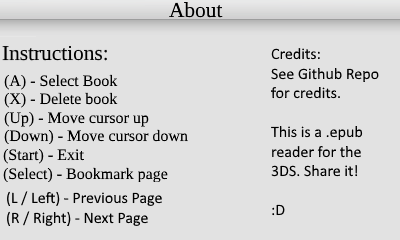
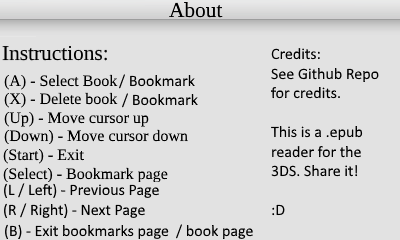
finished up bookmark system

Changed region(s): [[0.0, 0.7583, 0.63, 1.0], [0.3, 0.3208, 0.51, 0.4375]]

diff --git a/source/GUI.cpp b/source/GUI.cpp
@@ -7,7 +7,6 @@
 #include <ctime>
 #include <chrono>
 #include <cstdio>
-#include <sstream>
 #include <fstream>
 #include <cstdlib>
 #include <dirent.h> 
@@ -150,33 +149,125 @@ void GUI::event(Input& input, bool* isBookMode)
 		}
 		else
 		{	
-			// Book Events
-			
-			if ((input.getKeyDown() & KEY_B)  || (input.getPosX() >= 20 && input.getPosX() <= 103 && input.getPosY() >= 18 && input.getPosY() <= 185))
-			{ 
-				*isBookMode = false;
-				m_selected = "";
-				m_curFilePage = 1;
-				m_index = 0;
-				delete m_book;
-				m_book = nullptr;
-			}
-
-			if ((input.getKeyDown() & KEY_LEFT) || (input.getKeyDown() & KEY_L))
+			if (!m_showBookmarks)
 			{
-				--m_curBookPage;
-				if (m_curBookPage < 0)
+				// BOOK EVENTS
+
+				if (m_drawBookmarked)
 				{
-					m_curBookPage = 0;
+					if ((input.getPosX() >= 20 && input.getPosX() <= 300 && input.getPosY() >= 20 && input.getPosY() <= 220) || (input.getKeyDown() & KEY_A) )
+					{
+						m_drawBookmarked = false;
+					}
+				}
+				else
+				{
+					if ((input.getKeyDown() & KEY_B)  || (input.getPosX() >= 20 && input.getPosX() <= 103 && input.getPosY() >= 18 && input.getPosY() <= 185))
+					{ 
+						*isBookMode = false;
+						m_selected = "";
+						m_curFilePage = 1;
+						m_index = 0;
+						delete m_book;
+						m_book = nullptr;
+					}
+
+					if ((input.getKeyDown() & KEY_LEFT) || (input.getKeyDown() & KEY_L))
+					{
+						--m_curBookPage;
+						if (m_curBookPage < 0)
+						{
+							m_curBookPage = 0;
+						}
+					}
+					
+					if ((input.getKeyDown() & KEY_RIGHT) || (input.getKeyDown() & KEY_R))
+					{ 
+						++m_curBookPage;
+						if (m_curBookPage > m_book->getBookText().size())
+						{
+							m_curBookPage = m_book->getBookText().size();
+						}
+					}
+
+					if (input.getPosX() >= 120 && input.getPosX() <= 203 && input.getPosY() >= 18 && input.getPosY() <= 185)
+					{
+						m_showBookmarks = true;
+						m_bookmarks.loadBookmarks(m_selected);
+					}
+
+					if ((input.getPosX() >= 219 && input.getPosX() <= 302 && input.getPosY() >= 18 && input.getPosY() <= 185) || (input.getKeyDown() & KEY_SELECT) )
+					{
+						m_drawBookmarked = true;
+						m_bookmarks.saveBookmark(m_selected, m_curBookPage);
+						m_showBookmarks = false;
+					}
 				}
 			}
-			
-			if ((input.getKeyDown() & KEY_RIGHT) || (input.getKeyDown() & KEY_R))
-			{ 
-				++m_curBookPage;
-				if (m_curBookPage > m_book->getBookText().size())
+			else
+			{
+				// BOOKMARK MENU
+				
+				if (input.getKeyDown() & KEY_UP)
+				{ 
+					m_indexBookmark--;
+				}
+				
+				if (input.getKeyDown() & KEY_DOWN)
 				{
-					m_curBookPage = m_book->getBookText().size();
+				 	m_indexBookmark++; 
+				}
+				
+				if (input.getKeyDown() & KEY_LEFT) 
+				{ 
+					m_curPageBookmark--; 
+					m_indexBookmark = 0; 
+				}
+				
+				if (input.getKeyDown() & KEY_RIGHT) 
+				{ 
+					m_curPageBookmark++; 
+					m_indexBookmark = 0; 
+				}
+				
+				if (m_indexBookmark < 0) m_indexBookmark = 0;
+				if (m_indexBookmark > 6) m_indexBookmark = 6;
+				if (m_indexBookmark >= m_bookmarks.getBookmarkedPages().size()) m_indexBookmark = (m_bookmarks.getBookmarkedPages().size() - 1);
+				if (m_curPageBookmark < 0) m_curPageBookmark = 0;
+
+				if (input.getKeyDown() & KEY_X)
+				{ 
+					int bkmkelem = m_indexBookmark + (7 * m_curPageBookmark);
+				    if (!(bkmkelem >= m_bookmarks.getBookmarkedPages().size()))
+				    {
+				    	m_bookmarks.removeBookmark(m_selected, bkmkelem);
+				    }
+				}
+
+				if (input.getKeyDown() & KEY_A)
+				{ 
+					int bkmkelemtwo = m_indexBookmark + (7 * m_curPageBookmark);
+					if (!(bkmkelemtwo >= m_bookmarks.getBookmarkedPages().size()))
+					{
+						m_curBookPage = m_bookmarks.getBookmarkedPages()[bkmkelemtwo];
+					}
+				}
+
+				if (input.getPosX() >= 159 && input.getPosX() <= 320 && input.getPosY() >= 217 && input.getPosY() <= 241) 
+				{
+					if (m_drawAbout == true)
+					{
+						m_drawAbout = false;
+					}
+					else
+					{
+						m_drawAbout = true;
+					}
+				}
+
+				if ((input.getPosX() >= 0 && input.getPosX() <= 158 && input.getPosY() >= 217 && input.getPosY() <= 241) || (input.getKeyDown() & KEY_B))
+				{
+					m_showBookmarks = false;
 				}
 			}
 		}
@@ -289,7 +380,7 @@ void GUI::drawFileSelect()
 	else
 	{
 		float xLoad = (static_cast<float>(BOTTOM_WIDTH) / 2.0f) - (pp2d_get_text_width(m_loadText, 1.0f, 1.0f) / 2.0f);
-		float yLoad = (static_cast<float>(SCREEN_HEIGHT) / 2.0f) - (pp2d_get_text_height(m_loadText, 1.0f, 1.0f) / 2.0f);
+		float yLoad = ((static_cast<float>(SCREEN_HEIGHT) / 2.0f) - (pp2d_get_text_height(m_loadText, 1.0f, 1.0f) / 2.0f)) - 20.0f;
 		pp2d_draw_text(xLoad, yLoad, 1.0f, 1.0f, RGBA8(0, 0, 0, 255), m_loadText);
 	}
 }
@@ -303,7 +394,48 @@ void GUI::drawBookTop()
 
 void GUI::drawBookControls()
 {
-	m_controls->draw(0, 0);
+	if (m_drawBookmarked)
+	{
+		m_bookmarkedBG->draw(0, 0);
+	}
+	else if (m_showBookmarks)
+	{
+		pp2d_draw_rectangle(0, 217, 320, 24, RGBA8(156, 156, 156, 255));
+
+		m_bottom->draw(0, 0);
+		m_back->draw(0, 217);
+
+		float pos = 20.0f;
+
+		if (m_curPageBookmark == 0)
+		{
+			m_beginBookmark = 0;
+			m_endBookmark = 7; 
+		}
+		else 
+		{
+			m_beginBookmark = (7 * m_curPageBookmark);
+			m_endBookmark = (7 * m_curPageBookmark) + 6;
+		}
+
+		if (m_endBookmark > m_bookmarks.getBookmarkedPages().size())
+		{
+			m_endBookmark = m_bookmarks.getBookmarkedPages().size();
+		}
+
+		for (m_beginBookmark = m_beginBookmark; m_beginBookmark < m_endBookmark; ++m_beginBookmark)
+		{
+			std::string bob = "Page " + to_string<int>(m_bookmarks.getBookmarkedPages()[m_beginBookmark]); 
+			pp2d_draw_text(30.0f, pos, SCALE, SCALE, RGBA8(0, 0, 0, 255), bob.c_str());
+			pos += 20.0f;
+		}
+
+		pp2d_draw_text((30.0f - pp2d_get_text_width("->", SCALE, SCALE)) - 2.0f, 20.0f + (m_indexBookmark * 20), SCALE, SCALE, RGBA8(0, 0, 0, 255), "->");
+	}
+	else
+	{
+		m_controls->draw(0, 0);
+	}
 }
 
 void GUI::removeBook(const std::string& file)

diff --git a/source/GUI.hpp b/source/GUI.hpp
@@ -7,10 +7,12 @@
 #define EBOOK_GUI_HPP_
 
 #include <3ds.h>
+#include <sstream>
 
 #include "Book.hpp"
 #include "Input.hpp"
 #include "Texture.hpp"
+#include "Bookmark.hpp"
 
 class GUI
 {
@@ -77,6 +79,7 @@ private:
 	Texture* m_back;
 
 	Book* m_book = nullptr;
+	Bookmark m_bookmarks;
 
 	std::vector<Texture*> m_batteryLevels;
 	std::vector<std::string> m_files;
@@ -89,10 +92,17 @@ private:
 
 	bool m_drawAbout = false;
 	bool m_loading = false;
+	bool m_showBookmarks = false;
+	bool m_drawBookmarked = false;
 
 	int m_curBookPage = 0;
 	int m_curFilePage = 1;
 	int m_index = 0;
+	int m_indexBookmark = 0;
+	int m_curPageBookmark = 0;
+
+	unsigned int m_beginBookmark = 0;
+	unsigned int m_endBookmark = 7;
 
 private:
 	///
@@ -109,6 +119,20 @@ private:
 	/// Return the extension from a string.
 	///
 	std::string getExtension(const std::string& filename);
+
+	///
+	/// Takes numbers and returns a string.
+	///
+	template<typename T>
+	std::string to_string(const T& value);
 };
+
+template<typename T>
+std::string GUI::to_string(const T& value)
+{
+	std::ostringstream oss;
+	oss << value;
+	return oss.str();
+}
 
 #endif

diff --git a/source/Bookmark.cpp b/source/Bookmark.cpp
@@ -11,7 +11,7 @@ using namespace tinyxml2;
 
 Bookmark::~Bookmark()
 {
-
+	m_bookmarkedPages.clear();
 }
 
 void Bookmark::loadBookmarks(const std::string& book)
@@ -76,4 +76,9 @@ void Bookmark::removeBookmark(const std::string& book, int element)
     }
 
     doc.SaveFile("sdmc:/books/bookmarks.xml");
+}
+
+const std::vector<int>& Bookmark::getBookmarkedPages() const
+{
+	return m_bookmarkedPages;
 }

diff --git a/source/Bookmark.hpp b/source/Bookmark.hpp
@@ -31,6 +31,11 @@ public:
 	/// Remove a bookmark.
 	///
 	void removeBookmark(const std::string& book, int element);
+	
+	///
+	/// Get the bookmarked pages.
+	///
+	const std::vector<int>& getBookmarkedPages() const;
 
 private:
 	std::vector<int> m_bookmarkedPages;
